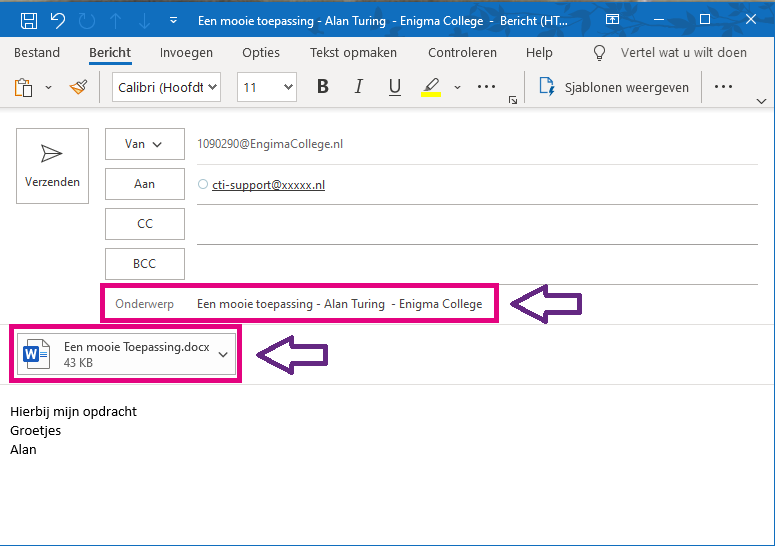
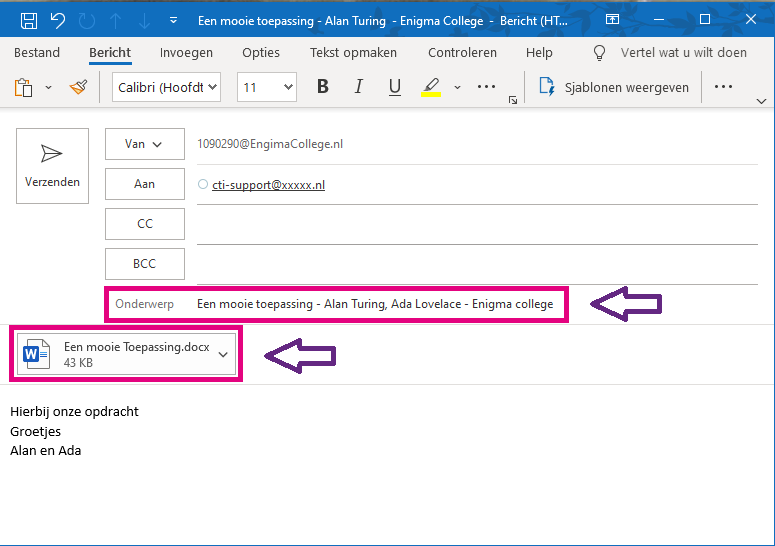
Add Ada Lovelace example to handin explaination

diff --git a/pages/voor-leerlingen/index.tsx b/pages/voor-leerlingen/index.tsx
@@ -60,16 +60,16 @@ const Index = (props: {}) => (
 								Als er onder een opdracht staat dat je hem in moet leveren, dan moet je de opdracht via mail naar het vaksteunpunt sturen. Van je leraar krijg je een email adres waar je de antwoorden op de opdrachten naar toe kan sturen.
 							</p>
 							<p>
-								Let op! Stuur je antwoorden als een bijlage (word document) en zorg er voor dat het onderwerp er zo uit ziet:<br/><b>[de opdrachtnaam] - [je volledige naam] - [je school naam]</b><br/><br/>Bijvoorbeeld als Alan Turing van het Enigma College de eerste opdracht inlevert, dan ziet het er zo uit:
-							</p>
-							<img
-								src={"/images/voor-leerlingen/email_voorbeeld.png"}
-								width="1219"
-								height="834"
-								aria-hidden
-								alt={""}
-							/>
-							<p>Als je dit niet doet, kan het zijn dat je opdracht niet goed verwerkt wordt.<br/></p>
+						Let op! Stuur je antwoorden als een bijlage (word document) en zorg er voor dat het onderwerp er zo uit ziet:<br/><b>[de opdrachtnaam] - [eerste volledige naam], [tweede volledige naam] - [je school naam]</b><br/><br/>Bijvoorbeeld als Alan Turing en Ada Lovelace van het Enigma College deze opdracht inleveren, dan ziet het er zo uit:
+					</p>
+					<img
+						src={"/images/voor-leerlingen/email_voorbeeld.png"}
+						width="1219"
+						height="834"
+						aria-hidden
+						alt={""}
+					/>
+					<p>Als je dit niet doet, kan het zijn dat je opdracht niet goed verwerkt wordt.<br/><br/></p>
 							
 							<p>Het kan ook zijn dat je voor een opdracht feedback kan krijgen van een mede-leerling. Dit heet een peer feedback opdracht. Van je leraar krijg je informatie over hoe dat werkt.</p><br/>
 							

diff --git a/pages/voor-leerlingen/week-1/index.tsx b/pages/voor-leerlingen/week-1/index.tsx
@@ -153,7 +153,7 @@ const Index = (props: {}) => (
 						Lever je antwoorden voor deze opdracht in bij het vaksteunpunt. Van je leraar krijg je het email adres waar je het naar toe kan sturen.
 					</p>
 					<p>
-						Let op! Stuur je antwoorden als een bijlage (word document) en zorg er voor dat het onderwerp er zo uit ziet:<br/><b>[de opdrachtnaam] - [je volledige naam] - [je school naam]</b><br/><br/>Bijvoorbeeld als Alan Turing van het Enigma College deze opdracht inlevert, dan ziet het er zo uit:
+						Let op! Stuur je antwoorden als een bijlage (word document) en zorg er voor dat het onderwerp er zo uit ziet:<br/><b>[de opdrachtnaam] - [eerste volledige naam], [tweede volledige naam] - [je school naam]</b><br/><br/>Bijvoorbeeld als Alan Turing en Ada Lovelace van het Enigma College deze opdracht inleveren, dan ziet het er zo uit:
 					</p>
 					<img
 						src={"/images/voor-leerlingen/email_voorbeeld.png"}
